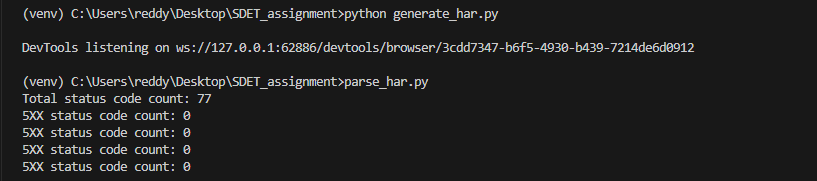
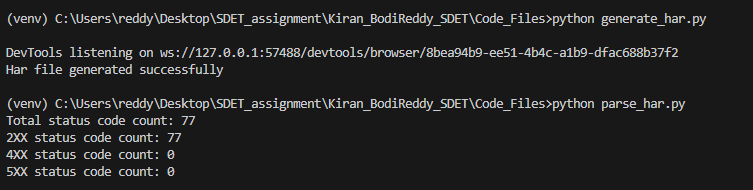
updated

diff --git a/Code_Files/parse_har.py b/Code_Files/parse_har.py
@@ -34,7 +34,7 @@ def save_output(total, status_2xx, status_4xx, status_5xx):
         output_file.write(f"5XX status code count: {status_5xx}\n")
 
 
-har_file_path = "output.har"
+har_file_path = r"C:\Users\reddy\Desktop\SDET_assignment\Kiran_BodiReddy_SDET\Generated_har.har"
 
 
 total, status_2xx, status_4xx, status_5xx = parse_har_file(har_file_path)

diff --git a/Code_Files/generate_har.py b/Code_Files/generate_har.py
@@ -41,3 +41,4 @@ try:
 finally:
     driver.quit()
     server.stop()
+    print("Har file generated successfully")
